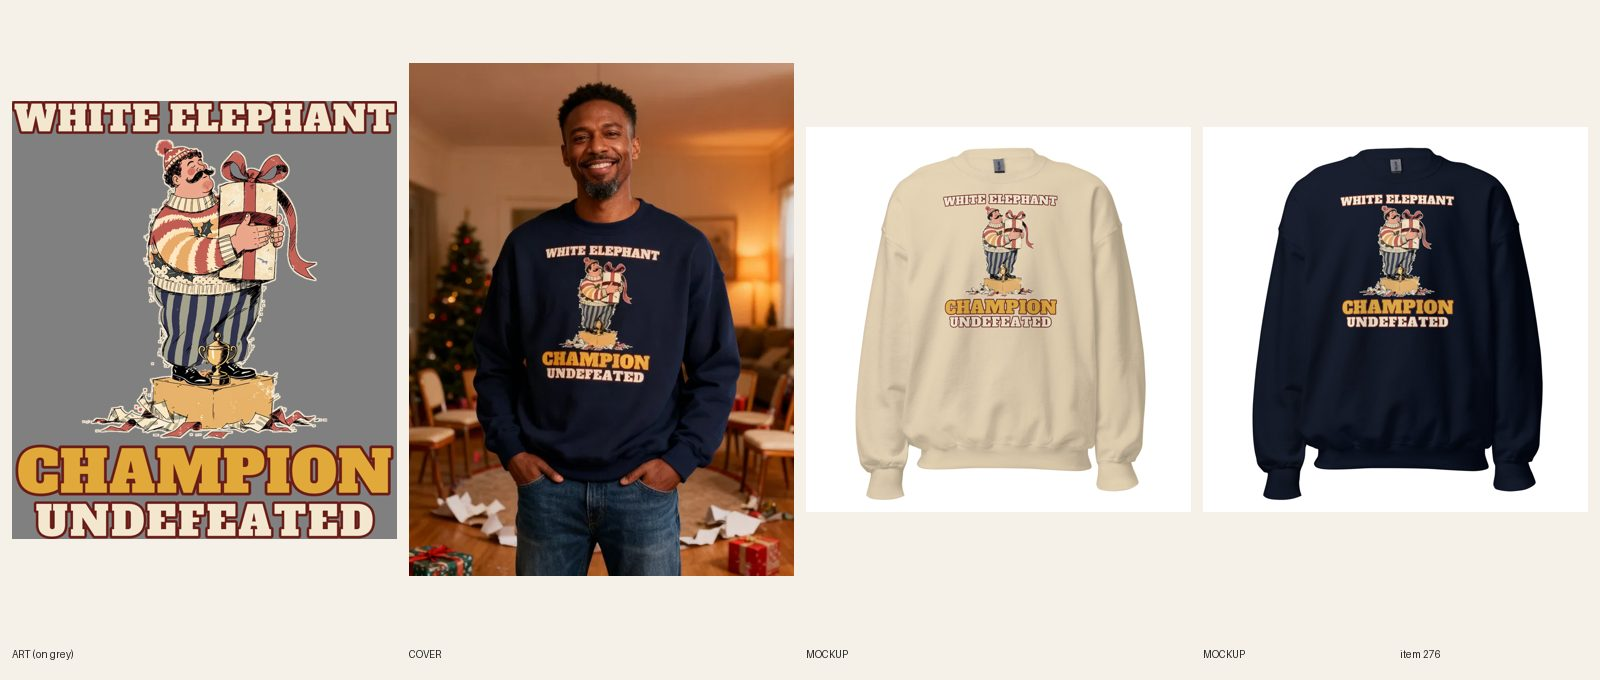
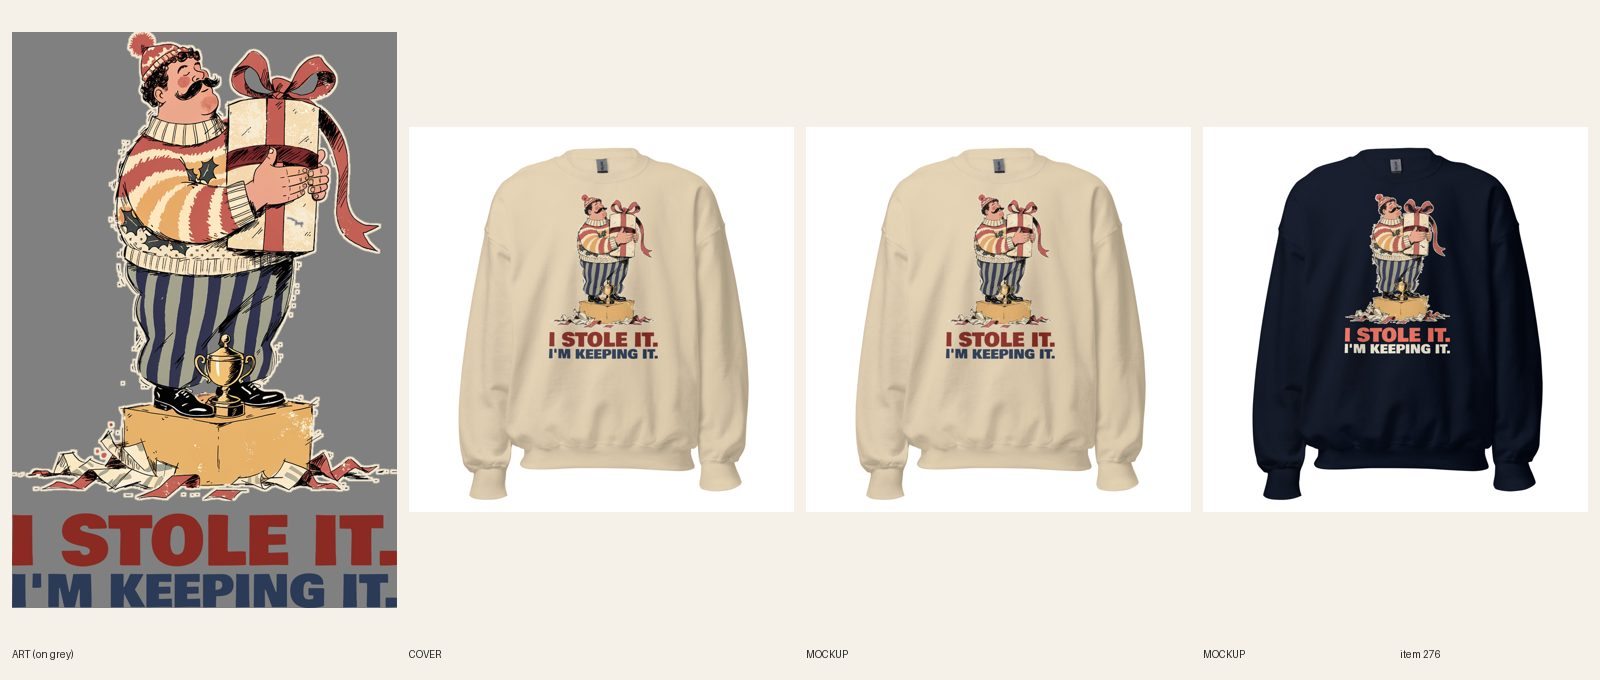
[A] review 276 White Elephant Champion crewneck (approved print port)
Claude-Session: https://claude.ai/code/session_01GRiDskgWhspQZP9XeAfLDd

diff --git a/designs/a276/build.py b/designs/a276/build.py
@@ -1,0 +1,12 @@
+#!/usr/bin/env python3
+"""#276 crewneck light-ink file for Navy: #275's approved I STOLE IT. / I'M KEEPING IT. print with the lockup recolored
+(I STOLE IT. warm coral #f0705f, I'M KEEPING IT. cream #f5ecd7); the art above the lockup is untouched. usage: build.py <275-steal-dark-ink.png> <out.png>"""
+import sys
+import numpy as np
+from PIL import Image
+src, out = sys.argv[1:3]
+a = Image.open(src).convert('RGBA'); px = np.array(a)
+H1, H2 = 4248, 4777  # first row of headline, first row of second line (gaps found at 4138-4248 and 4717-4777)
+for y0, y1, rgb in ((H1, 4717, (0xf0, 0x70, 0x5f)), (H2, a.height, (0xf5, 0xec, 0xd7))):
+    blk = px[y0:y1]; blk[:, :, :3] = rgb
+Image.fromarray(px).save(out, dpi=(300, 300)); print(out, a.size)

diff --git a/docs/pipeline/276-christmas-white-elephant-champion-crewneck.md b/docs/pipeline/276-christmas-white-elephant-champion-crewneck.md
@@ -1,4 +1,4 @@
-status: REDO
+status: REVIEW
 lane: A
 type: twin
 id: 276
@@ -25,3 +25,4 @@ kd: 60
 - 2026-10-18 03:30 UTC director: LIVE (ACTIVE + Online Store/Headless/Google & YouTube, audit PASS 0 warn).
 - 2026-10-18 17:22 UTC director: QUALITY RESET grade C (new line + type), REDO. The product stays ACTIVE (same handle, URL, title keyword). 1. Line (R3.12, quality-reset 'Lines'): "WHITE ELEPHANT / CHAMPION / UNDEFEATED": Stock champion/undefeated template, no twist. Write 5 candidates, keep the one a stranger laughs at in 3 seconds without backstory; kill lines that only describe the picture; if none of the 5 is funny, PARK it. 2. Quality reset type bar (docs/backlog/quality-reset.md, 'The new bar'): headline at least 90% of the art width, heavy, colors pulled from the art; second line at least 45% of the headline's height, never a thin script on a dark or mid garment; use the lettering as a shape (arch, stacked lockup, words breaking into the art), not a plain bar above and a script line below; no font used on more than 1 in 6 of the last 30 designs. 3. Keep the art if it carries the new line, else one new illustration (R4/R5). New print means a new cover per R6.10, copy line one rewritten for the new joke (R8.3), and a fresh review sheet (R7.7). While quality-reset.md says PAUSED, only lane A builds, and only the samples step 2 names.
 - 2026-10-19 15:55 UTC director: SHORTCUT for this REDO: its source design #275 went LIVE today with the line I STOLE IT. / I'M KEEPING IT., approved by Sam (quality-reset sample). Do not write new lines: port the #275 print (Printful file 1089080077) to this blank. Set your own width for this garment (R5.3.8 twins: crewneck FW 1650, hoodie FW 1500+, top of print about 3 in below the collar), make a light-ink file only if a dark garment color is offered (R5.3.8), relink every variant and log the count (R7.7), new fronts per color, copy line one and FAQ updated to the new line, plain product shot cover (add the handle to src/data/retired-covers.json; no new cover, RESUME terms), fresh docs/review/<id>.jpg. fal $0. Take these before other REDOs: they are the fastest way to match Sam-approved designs across garments.
+- 2026-10-19 18:25 UTC builder [A]: REDO 276 ported Sam-approved #275 print I STOLE IT. / I'M KEEPING IT. (Printful file 1089080077, Bowlby One, full art width) to the Gildan 18000 crewneck. FW 1550 TOP 60 (1650 clips: the 3400x5083 print is 16.4 in tall on a 16 in area; 1550 fits with the second line inside). Navy is offered and the red/navy lockup sinks into it, so light file: Navy on 1089717756 (docs/print-files/276-steal-light-ink.png, I STOLE IT. coral #f0705f, I'M KEEPING IT. cream #f5ecd7, art untouched); White, Sand, Sport Grey on 1089080077, headline fill ink (red/navy). Relinked 24/24 verified (18 dark file, 6 Navy light file), back logo 1080398177 kept (R7.7). 4 fronts replaced in place (fileUpdate), read at phone size on all four. Copy: SEO, Story, FAQ 4 updated to the new line and inks; FAQs 5 x 40-60 words incl. Dec 8; no frame/badge wording. Plain product shot: handle added to retired-covers.json. audit --handle PASS 0 warn. fal $0. Sheet docs/review/276.jpg.

diff --git a/docs/intake-log.md b/docs/intake-log.md
@@ -1,6 +1,7 @@
-RUNNING lane A since 2026-10-19 18:05 UTC
 2026-10-19 18:30 UTC — [D] Director run (RESUMED). Inbox: nothing new since the 17:55 note. Reviewed the 6 redo sheets that reached REVIEW (#240 #461 #463 #490 #494 #567): all at the new type bar, side by side with 493 and 483/479. LIVE 6 (cap); all were already ACTIVE and published (Online Store, Headless, Google & YouTube); Shopify copy matches the new lettering; cohesion-audit --handle PASS 0 warn on all 6; every handle is in retired-covers.json (plain product shot). No REDO this run. Still approved and held at REVIEW: #582 #633 #651 #653 and 31 add-ons; next run publishes the held A items first. READY: A 12, B 12, C 12 (E 5; REDO backlog 181, so no new briefs). No Telegram (midday digest went at 12:20; nothing needs Sam). npm ci run for the audit. Lock released.
 2026-10-19 18:09 UTC — [B] Builder run: redid #463 Core Issues crewneck (type only: heavy Anton rose I HAVE + Bowlby One charcoal CORE ISSUES at full art width, same art, FW 1650, file 1089718074, 12/12 resynced, 2 fronts replaced in place, plain product shot). REVIEW. fal $0. Lock released.
+2026-10-19 18:27 UTC — [A] Builder run: redid #276 White Elephant Champion crewneck (ported approved #275 I STOLE IT. / I'M KEEPING IT. print, FW 1550 because 1650 clips the tall print, Navy on a light-ink file, 24/24 relinked, 4 fronts replaced in place, copy updated, plain product shot). REVIEW. fal $0. Lock released.
+RUNNING lane B since 2026-10-19 18:00 UTC
 2026-10-19 17:57 UTC — [E] Builder run: redid #490 Plans Canceled. Mood Improved. hoodie (director R5.3.8: Sand now has its own file, MOOD IMPROVED. in solid dark brown with no keyline, PLANS CANCELED. orange; file 1089709719, Sand 6/6 relinked, Sand front replaced in place, Story ink sentence updated). REVIEW. fal $0. 1 redo per run cap reached. Lock released.
 2026-10-19 17:45 UTC — [H] Helper run: Telegram inbox empty (getUpdates returned 0 updates; no pause, resume or TikTok links; nothing to consume). Audit (600 live products): 0 errors, 30 warnings left alone (polish); no meta, SEO, collection or price errors to fix. Category check: 0 products without a category (Shopify query empty). Site freshness: womens-cat-oops-anyway-crewneck-sweatshirt, unisex-introvert-i-have-plans-hoodie, mens-christmas-bulking-season-graphic-tee all 200. Stuck check: 0 items BUILDING; lane C lock (17:30) is current. Daily summary not due (sent 16:05). Stale helper lock from 16:45 taken over at start. Lock released.
 2026-10-19 17:56 UTC — [B] Builder run: redid #461 Expert in Après crewneck (type only: Alfa Slab burgundy headline at full art width + Anton navy second line, dark-ink file for Sand/Light Pink, same art, FW 1650, 12/12 resynced, 2 fronts replaced in place, plain product shot). REVIEW. fal $0. Lock released.
